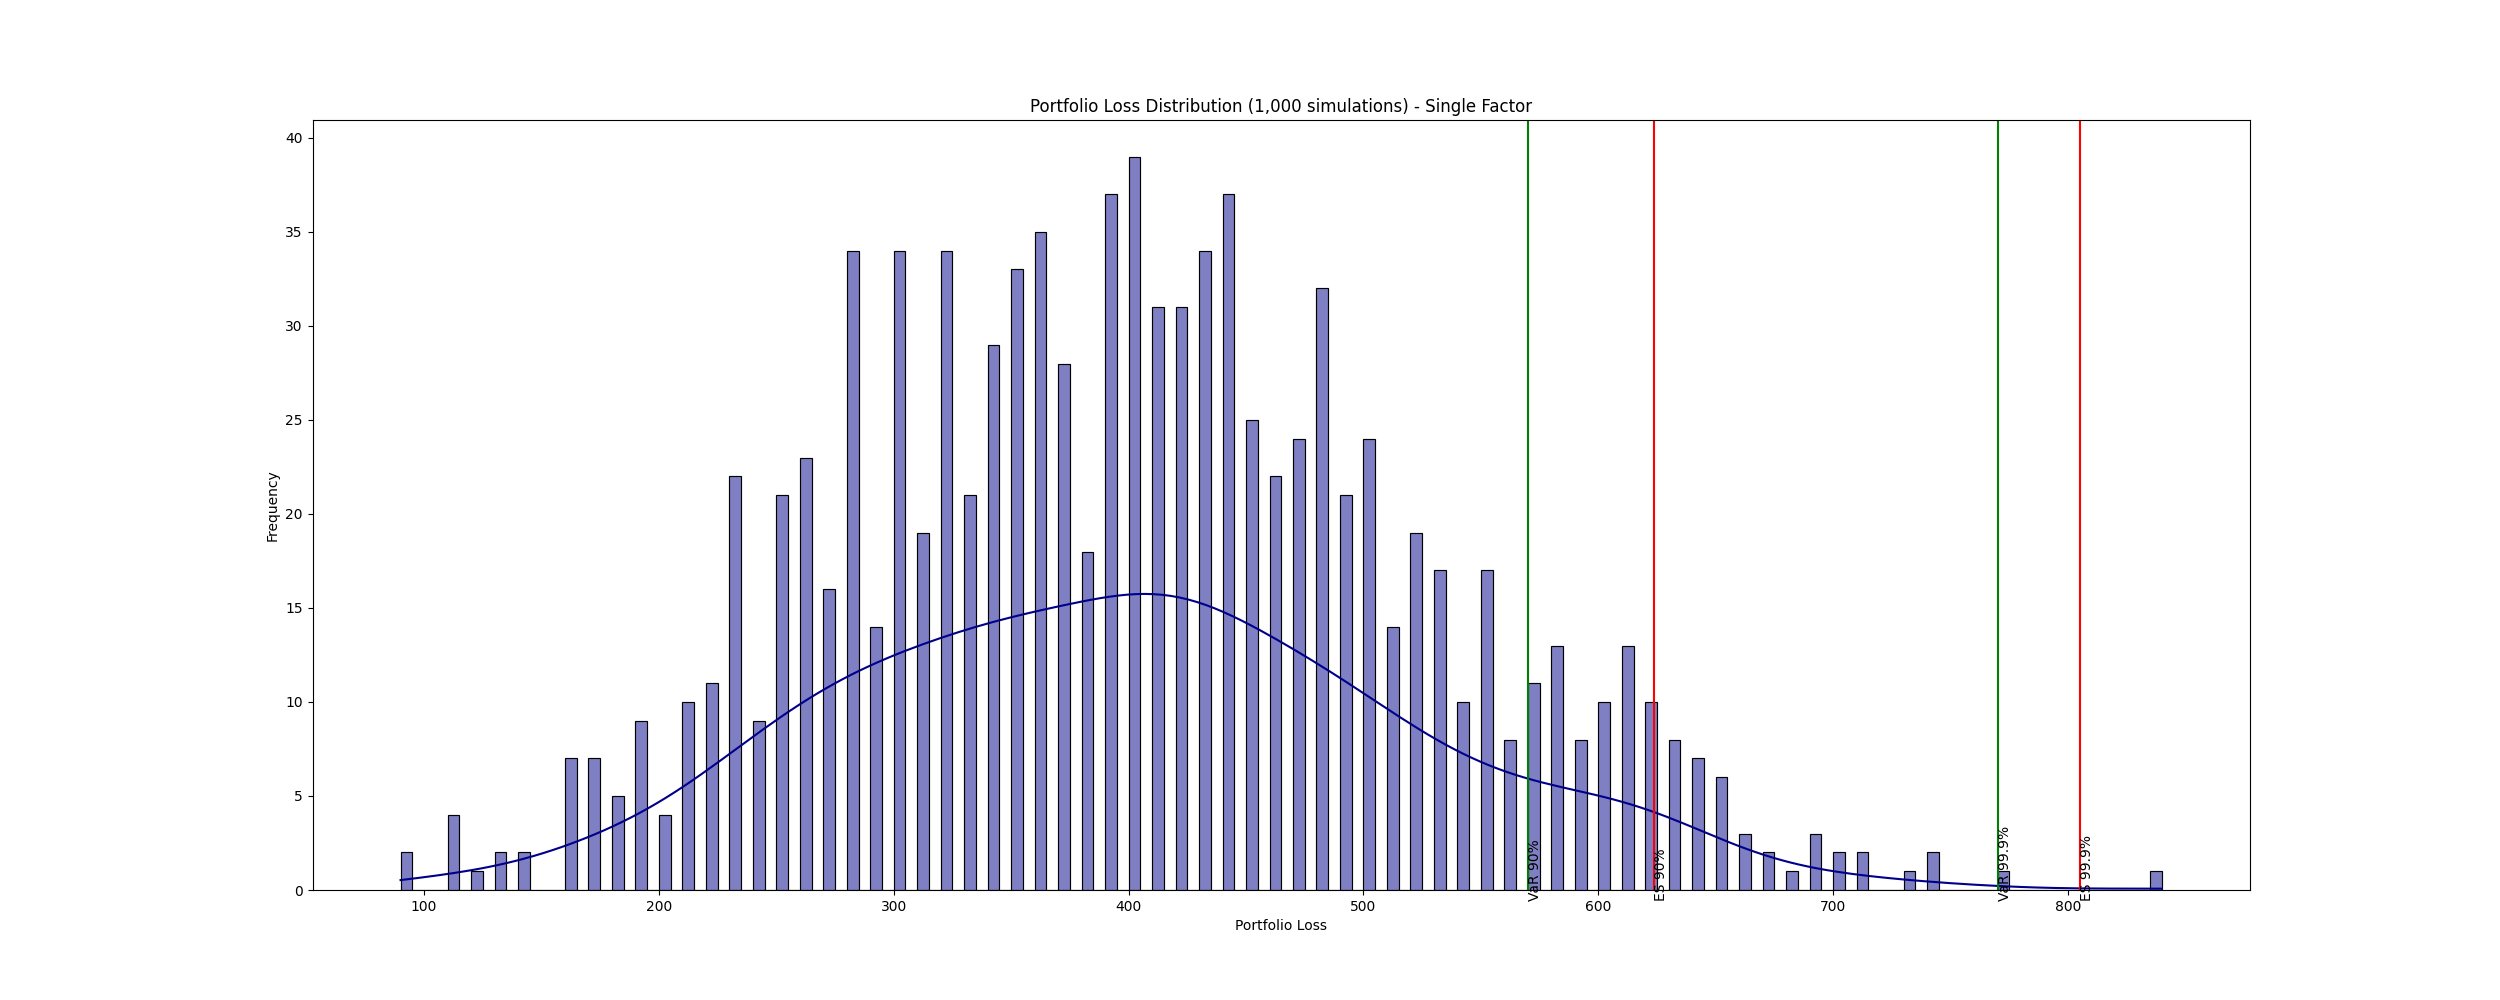
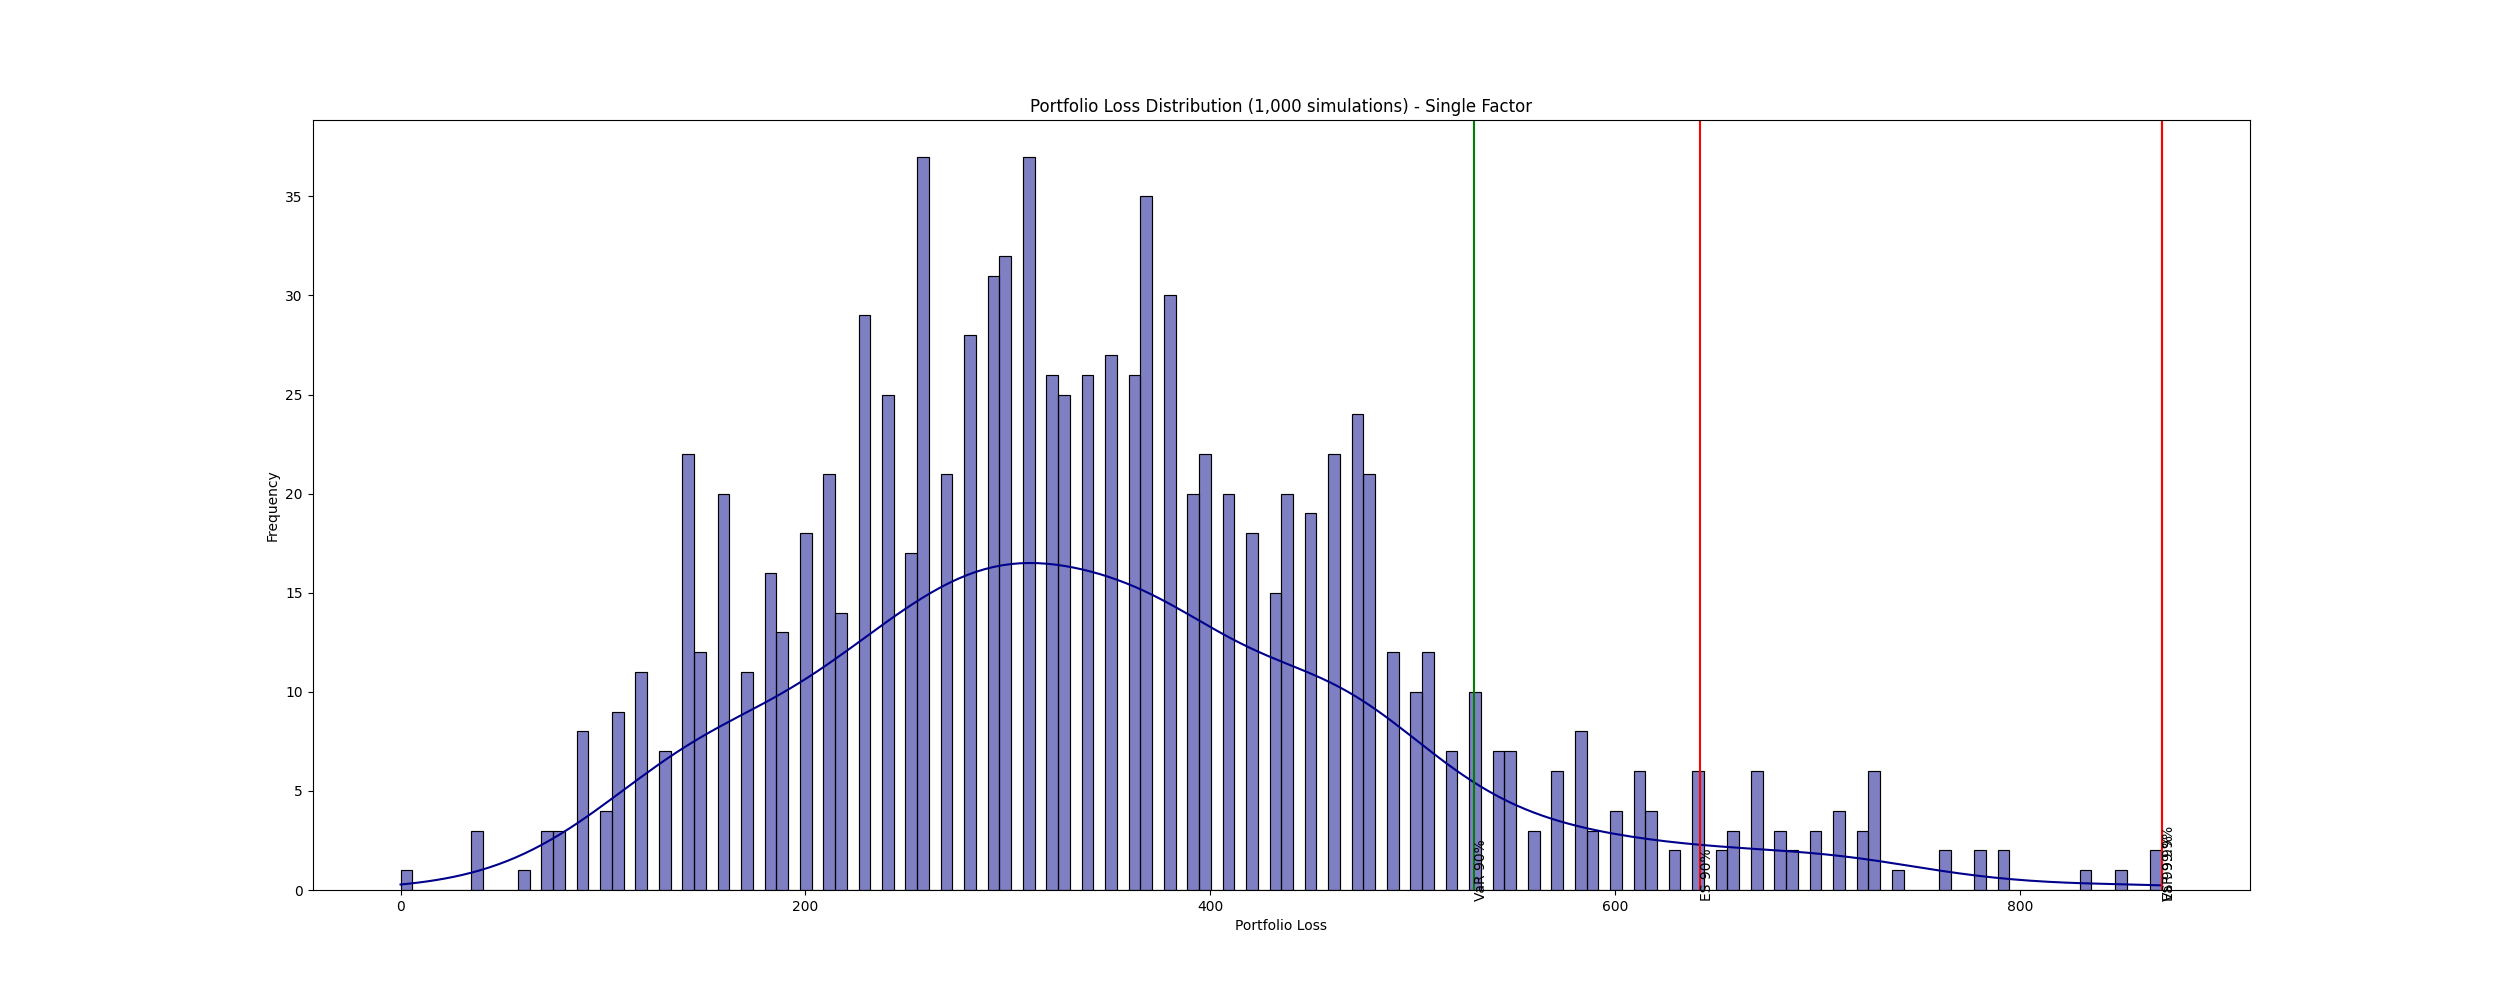
Added plots

Changed region(s): [[0.156, 0.155, 0.8736, 0.93]]

diff --git a/code/multi_factor_simulation.py b/code/multi_factor_simulation.py
@@ -35,7 +35,7 @@ covariance_matrix.drop(covariance_matrix.columns[0], axis=1, inplace=True)
 # Monte Carlo simulation
 PORTFOLIO_LOSS = list()
 
-simulations = 50_000
+simulations = 1_000
 cols = df.columns.drop(['Sector'])
 df[cols] = df[cols].apply(pd.to_numeric, errors='coerce')
 
@@ -128,6 +128,6 @@ plt.axvline(ES_999, color='red')
 plt.text(ES_999, -0.4, 'ES 99.9%', rotation=90)
 plt.xlabel('Portfolio Loss')
 plt.ylabel('Frequency')
-plt.title('Portfolio Loss Distribution (50,000 simulations) - Multi Factor')
-#plt.savefig(os.path.join(HOME, 'export', 'multi_factor_PLD_100.png'))
+plt.title('Portfolio Loss Distribution (1,000 simulations) - Multi Factor')
+plt.savefig(os.path.join(HOME, 'export', 'multi_factor_PLD_1000.png'))
 plt.show()

diff --git a/code/single_factor_simulation.py b/code/single_factor_simulation.py
@@ -23,7 +23,7 @@ df = pd.read_csv('export/single_factor_sensitivities.csv', index_col=0)
 
 # Monte Carlo simulation
 PORTFOLIO_LOSS = list()
-simulations = 50_000
+simulations = 10_000
 
 for i in range(simulations):
 
@@ -95,6 +95,7 @@ plt.axvline(ES_999, color='red')
 plt.text(ES_999, -0.4, 'ES 99.9%', rotation=90)
 plt.xlabel('Portfolio Loss')
 plt.ylabel('Frequency')
-plt.title('Portfolio Loss Distribution (50,000 simulations) - Single Factor')
-# plt.savefig(os.path.join(HOME, 'export', 'portfolio_loss_distribution_50000.png'))
+plt.title('Portfolio Loss Distribution (10,000 simulations) - Single Factor')
+plt.savefig(os.path.join(HOME, 'export',
+            'single_factor_PLD_10000.png'))
 plt.show()
